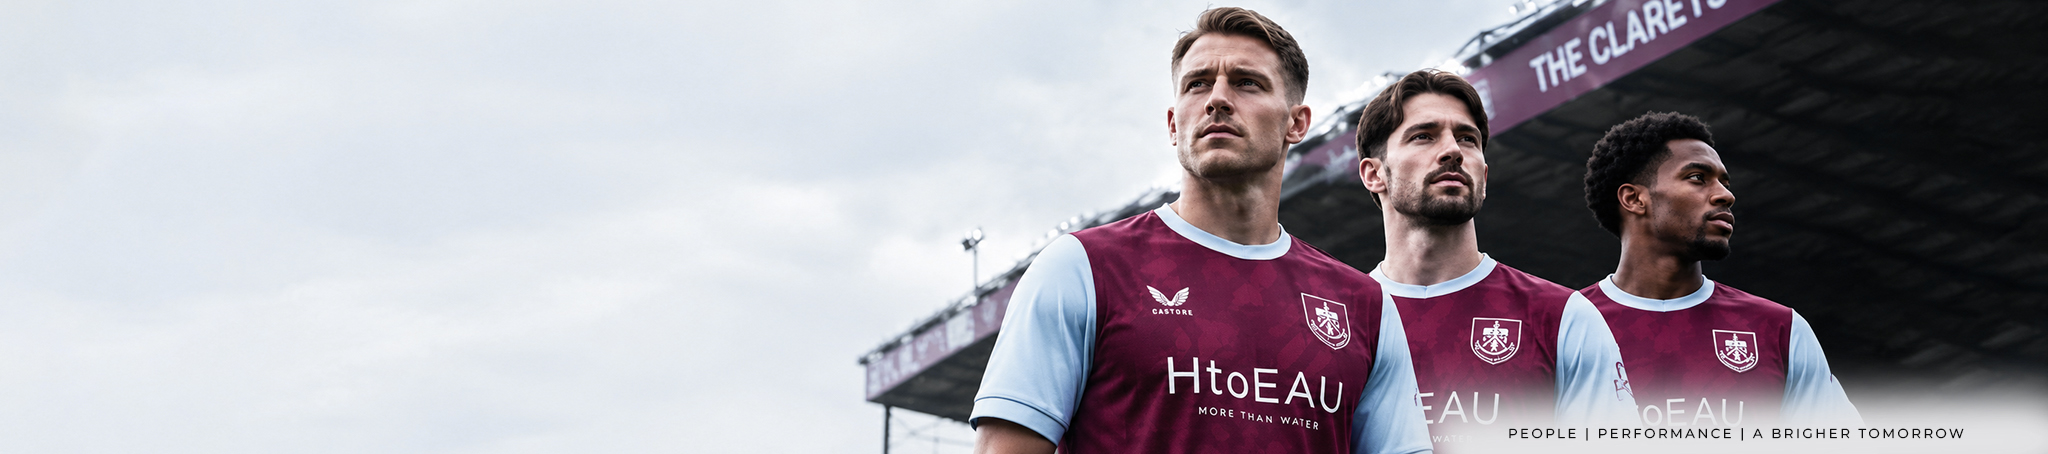
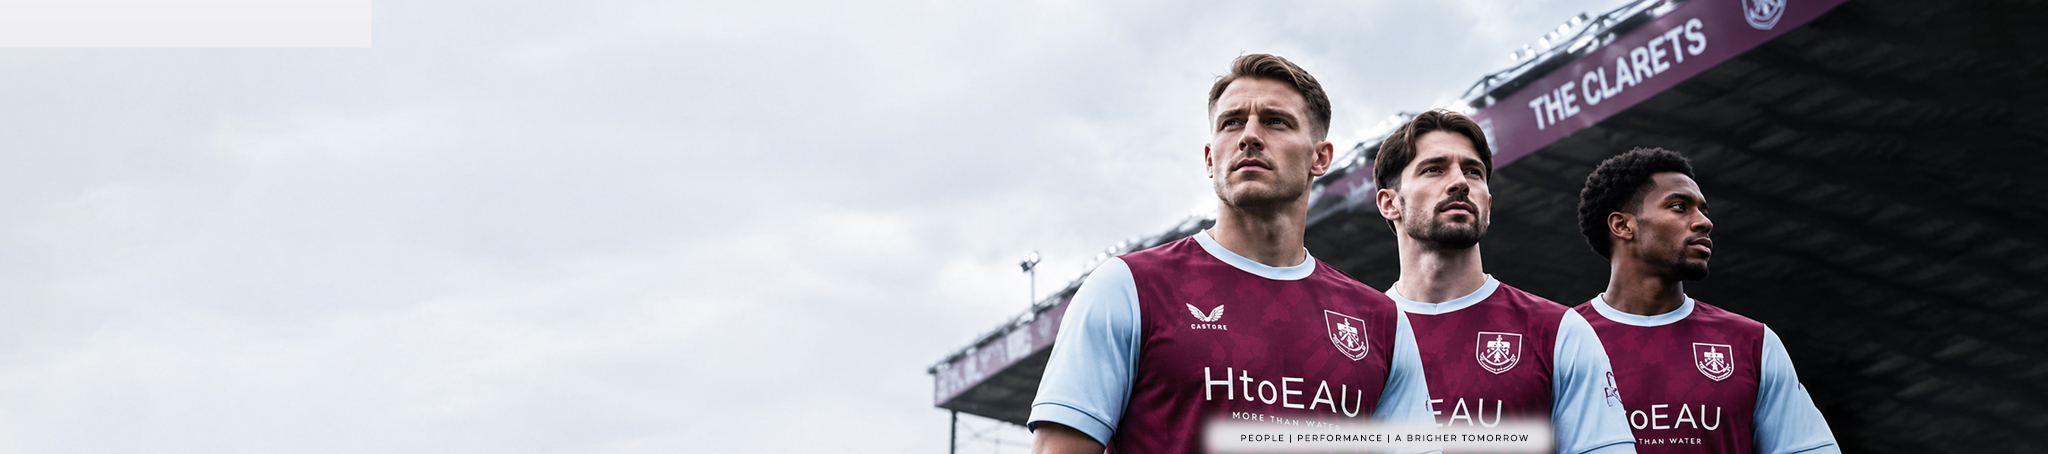
new partnership page design fixes

Changed region(s): [[0.4062, 0.0, 1.0, 1.0]]

diff --git a/src/App.jsx b/src/App.jsx
@@ -67,8 +67,7 @@ export default function App() {
         {/* 2. Main hero with icy water background and product cans */}
         <Hero />
 
-        {/* 3. Customer testimonial carousel */}
-        <TestimonialCarousel />
+       
 
         {/* =========================================================================
             OFFICIAL PARTNERSHIP SECTION (BURNLEY FC) - DESIGN DIRECTION OPTIONS
@@ -80,6 +79,8 @@ export default function App() {
 
         {/* OPTION 2: Alternative Client-Approved Partnership Section (Active) */}
         <PartnershipSectionAlt onNavigate={navigateToPartnership} />
+ {/* 3. Customer testimonial carousel */}
+        <TestimonialCarousel />
 
         {/* 4. Teal product showcase section with three product cards */}
         <ProductSection />

diff --git a/src/components/PartnershipSectionAlt.jsx b/src/components/PartnershipSectionAlt.jsx
@@ -23,7 +23,7 @@ export default function PartnershipSectionAlt({ onNavigate }) {
   return (
     <section 
       id="partnership" 
-      className="relative w-full overflow-hidden bg-[#EDEEF1]"
+      className="relative my-5 w-full overflow-hidden bg-[#EDEEF1]"
     >
       {/* =========================================================================
           DESKTOP PRESENTATION (lg+)
